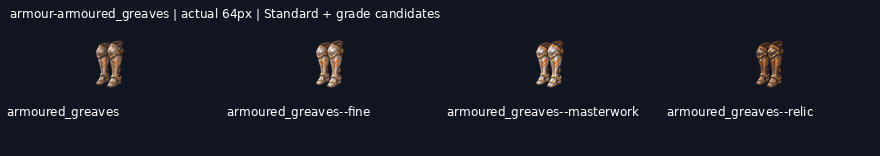
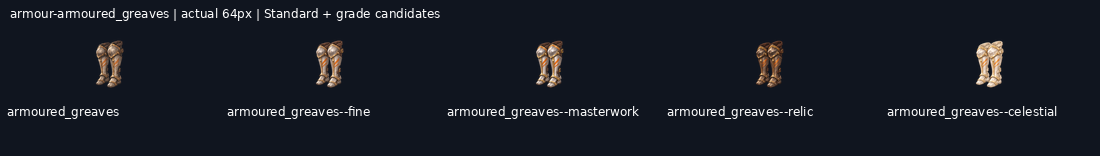
art: draw armour-armoured_greaves--celestial grade candidate

diff --git a/art/_archive/gear/2026-11-19-kept-blade-grades/HANDOFF.md b/art/_archive/gear/2026-11-19-kept-blade-grades/HANDOFF.md
@@ -1,17 +1,17 @@
 # Gear grade candidates
 
-**96/120 grade candidates delivered** on `art/2026-11-19-kept-blade-grades`. Shared mailbox: https://github.com/leonpentastorm/Project-Heaven-Cry/issues/3 . See claim.json for this lane’s current Standards. Released overlapping blades reuse12 peer candidates, with3 local alternatives archived.
+**97/120 grade candidates delivered** on `art/2026-11-19-kept-blade-grades`. Shared mailbox: https://github.com/leonpentastorm/Project-Heaven-Cry/issues/3 . See claim.json for this lane’s current Standards. Released overlapping blades reuse12 peer candidates, with3 local alternatives archived.
 
 Leon requested continuous candidate production; proof approval is not fabricated. All candidates remain review-candidate, production_approved:false, implementation_ready:false, with outline.review_required:true. Exact outline is measured, never asserted unless the masks match. Per-image registration is uniform scaling/translation only, without warp, silhouette masks, filled pixels or code-drawn substitutes. The generated native remains untouched.
 
 Each image is generated, shown, technically exported, validated, committed and pushed before the next. Sources, versioned masters, exact prompts/reference hashes,256/128/64/32 exports and grade comparison sheets are retained. Standards and earlier deliveries are unchanged. This sparse checkout cannot validate omitted historical files; full-library validation/build is an integration check on a full checkout.
 
-Remaining: weapon-ork_machete--masterwork, weapon-ork_machete--relic, weapon-ork_machete--celestial, weapon-war_axe--fine, weapon-war_axe--masterwork, weapon-war_axe--relic, weapon-war_axe--celestial, armour-armoured_greaves--celestial, armour-work_gloves--fine, armour-work_gloves--masterwork, armour-work_gloves--relic, armour-work_gloves--celestial, armour-combat_gloves--fine, armour-combat_gloves--masterwork, armour-combat_gloves--relic, armour-combat_gloves--celestial, armour-field_boots--fine, armour-field_boots--masterwork, armour-field_boots--relic, armour-field_boots--celestial, armour-heavy_boots--fine, armour-heavy_boots--masterwork, armour-heavy_boots--relic, armour-heavy_boots--celestial.
+Remaining: weapon-ork_machete--masterwork, weapon-ork_machete--relic, weapon-ork_machete--celestial, weapon-war_axe--fine, weapon-war_axe--masterwork, weapon-war_axe--relic, weapon-war_axe--celestial, armour-work_gloves--fine, armour-work_gloves--masterwork, armour-work_gloves--relic, armour-work_gloves--celestial, armour-combat_gloves--fine, armour-combat_gloves--masterwork, armour-combat_gloves--relic, armour-combat_gloves--celestial, armour-field_boots--fine, armour-field_boots--masterwork, armour-field_boots--relic, armour-field_boots--celestial, armour-heavy_boots--fine, armour-heavy_boots--masterwork, armour-heavy_boots--relic, armour-heavy_boots--celestial.
 
 Service-rejected requests (do not repeatedly resubmit): weapon-ork_machete--masterwork, weapon-war_axe--fine.
 
 Waiting on rejected prerequisites: weapon-ork_machete--celestial, weapon-ork_machete--relic, weapon-war_axe--celestial, weapon-war_axe--masterwork, weapon-war_axe--relic.
 
-Ready independent next steps, in queue order: armour-armoured_greaves--celestial, armour-work_gloves--fine, armour-combat_gloves--fine, armour-field_boots--fine, armour-heavy_boots--fine. Other pending grades follow their preceding grade.
+Ready independent next steps, in queue order: armour-work_gloves--fine, armour-combat_gloves--fine, armour-field_boots--fine, armour-heavy_boots--fine. Other pending grades follow their preceding grade.
 
 Runtime handoff: implementation_ready:false records review status but does not gate the web asset builder. The builder emits grade asset keys; the current UI gear resolver still needs grade-aware selection. Do not claim that runtime grade selection is implemented by these art deliveries.
